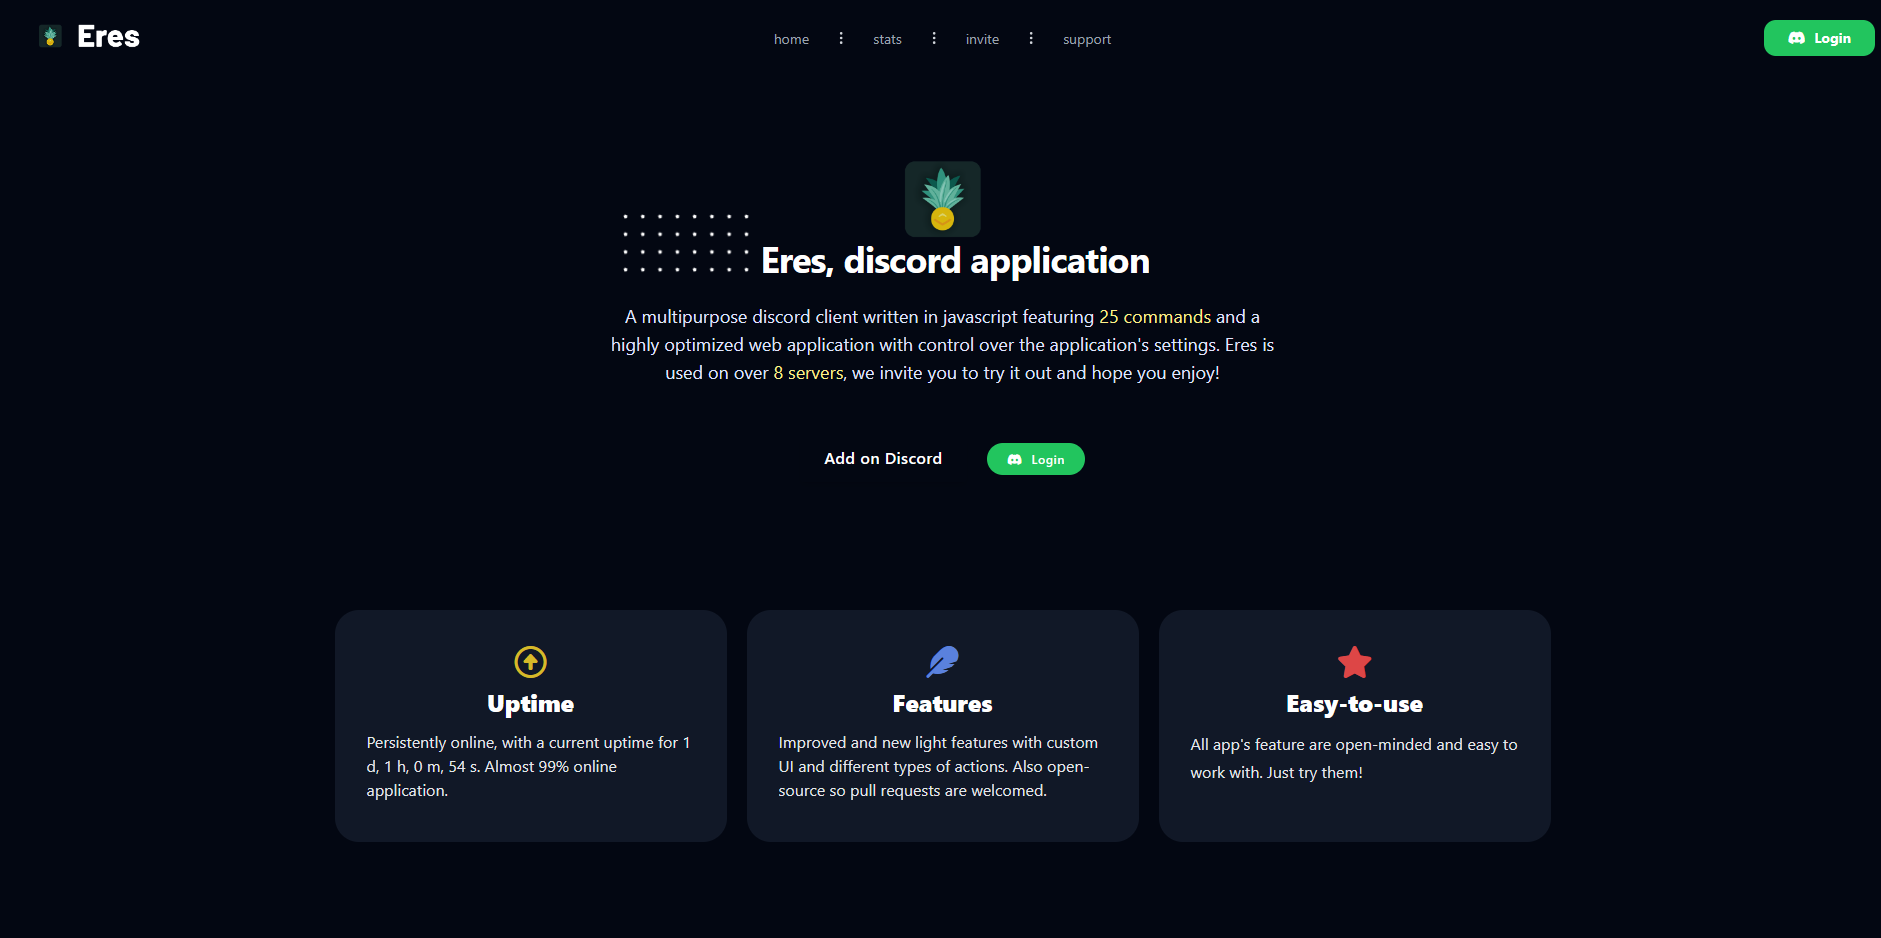
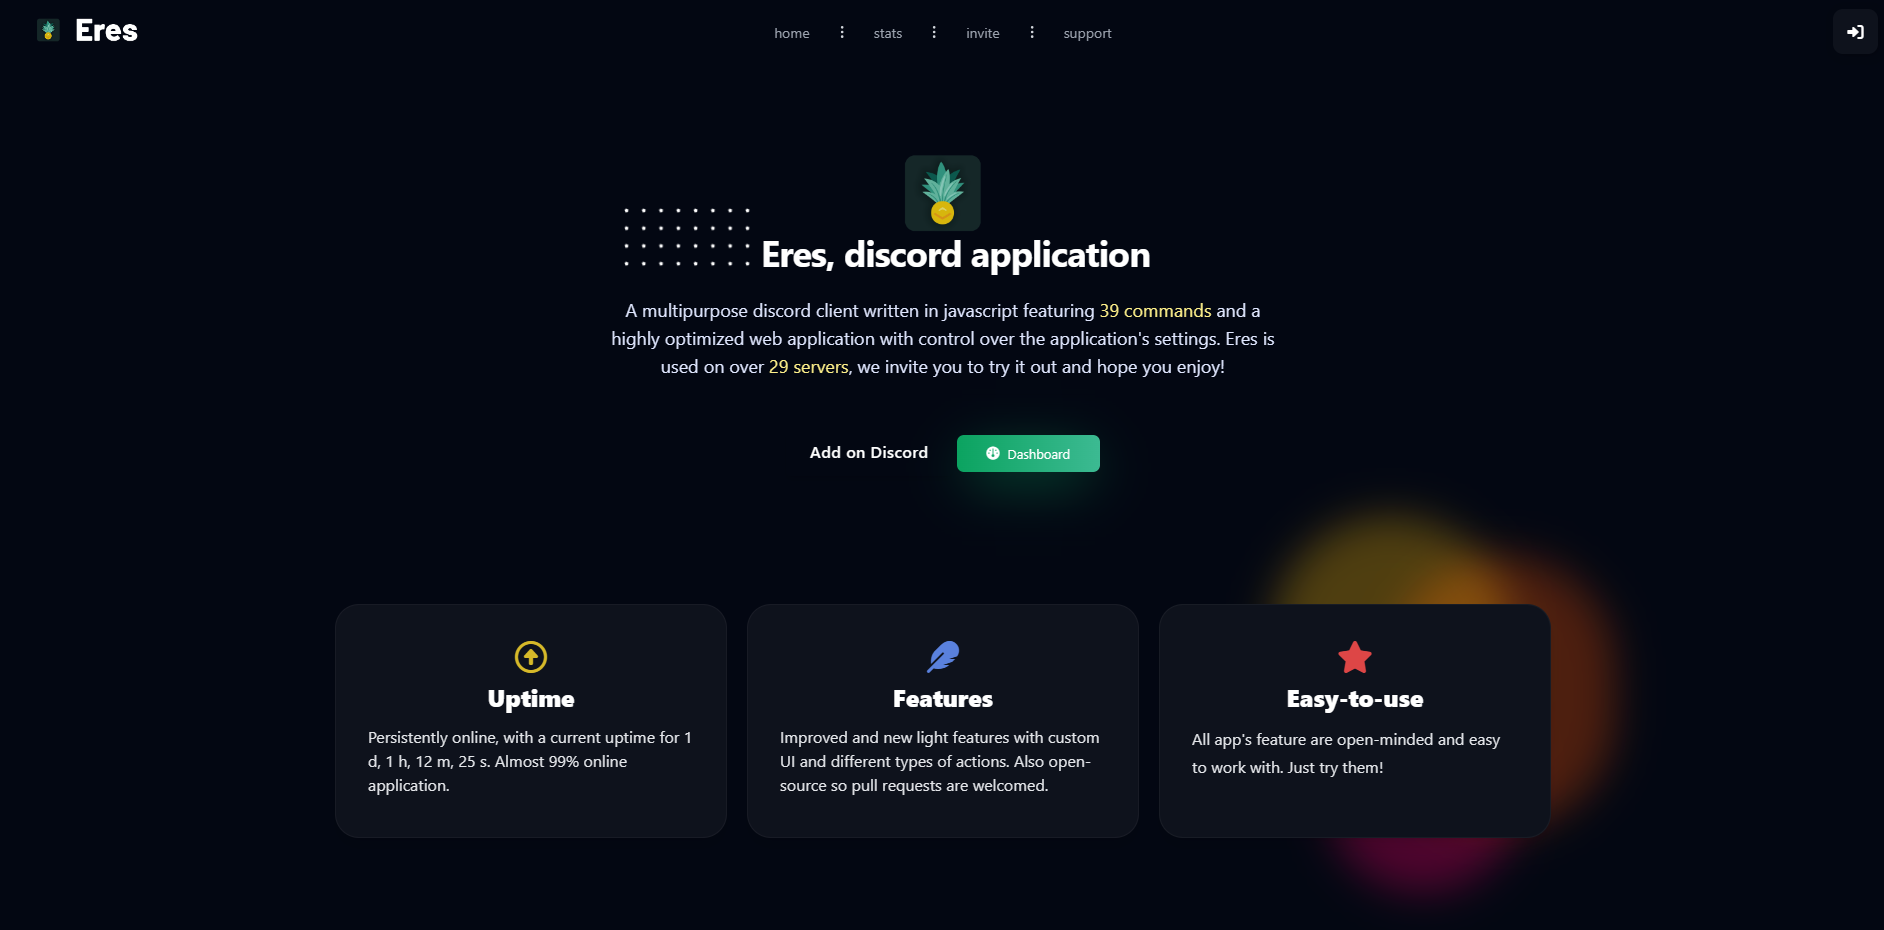
✨ admin panel: pm2 features

diff --git a/routes/index.js b/routes/index.js
@@ -8,6 +8,7 @@ require('dayjs/plugin/duration');
 
 const package = require('../package.json');
 
+const { exec } = require('child_process');
 const router = express.Router();
 
 const db = require('../database/manager');
@@ -135,6 +136,48 @@ router.get('/admin/panel', checkAuth, async (req, res) => {
 		commands_used: commands_used || 0,
 		songs_played: songs_played || 0,
 		commits: commits || [],
+	});
+});
+
+router.post('/restart', checkAuth, async (req, res) => {
+	// Check if the user is allowed
+	if (req.user.id !== process.env.DEVELOPER_ID) {
+		return res.status(403).send('Not allowed');
+	}
+
+	// Restart the bot
+	exec('pm2 restart all', (error, stdout, stderr) => {
+		if (error) {
+			console.log(`error: ${error.message}`);
+			return;
+		}
+		if (stderr) {
+			console.log(`stderr: ${stderr}`);
+			return;
+		}
+		console.log(`stdout: ${stdout}`);
+	});
+
+	await res.send('Server is restarting');
+});
+
+router.get('/logs', checkAuth, async (req, res) => {
+	// Check if the user is allowed
+	if (req.user.id !== process.env.DEVELOPER_ID) {
+		return res.status(403).send('Not allowed');
+	}
+
+	// Get the logs
+	exec('pm2 logs --nostream', (error, stdout, stderr) => {
+		if (error) {
+			console.log(`error: ${error.message}`);
+			return;
+		}
+		if (stderr) {
+			console.log(`stderr: ${stderr}`);
+			return;
+		}
+		res.send(stdout);
 	});
 });
 

diff --git a/README.md b/README.md
@@ -1,6 +1,6 @@
 > <img src="./assets/eres-crop.png"  width="24" /> eres.fun<br/> author: [skillzl](https://skillzl.dev)
 
-🍍 A multipurpose discord client written in javascript featuring a lot of util commands and a highly optimized web application with control over the application's settings. Eres is used on over **12** servers, we invite you to try it out and hope you enjoy!
+🍍 A multipurpose discord client written in javascript featuring a lot of util commands and a highly optimized web application with control over the application's settings. Eres is used on over **30** servers, we invite you to try it out and hope you enjoy!
 
 ## Deployment & Features
 
@@ -75,6 +75,9 @@ SKILLZL_API_KEY=
 
 ## Custom youtube cookie (for 419 rate limits)
 YOUTUBE_COOKIE=
+
+## GitHub Personal Token => (used for github integration /admin/panel )
+GITHUB_TOKEN=
 ```
 
 > **Note**: Envoirement settings need to be in a ".env" file.
@@ -82,13 +85,16 @@ YOUTUBE_COOKIE=
 ## Analytics
 
 As a developer, see how your application grow.
+ 
 To set the  `_id` just follow this tutorial I made real quick!
-[click here](./ANALYTICS.md)
+
+[Click Here!](./ANALYTICS.md)
 
 ## Emojis
 
-Import these emojis to your server [click here](./assets/emojis/)
-Change the emojis here [click here](./functions/Emojis.js)
+Import these emojis to your server [Click Here!](./assets/emojis/)
+
+Change the emojis here [Click Here!](./functions/Emojis.js)
 
 ## License
 
